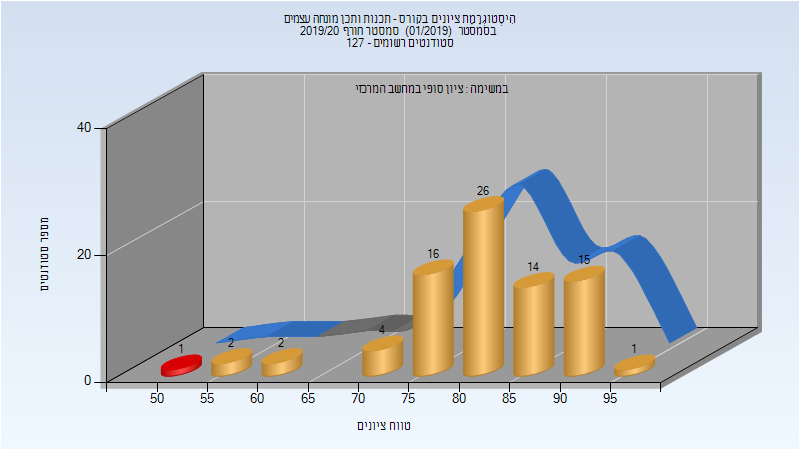
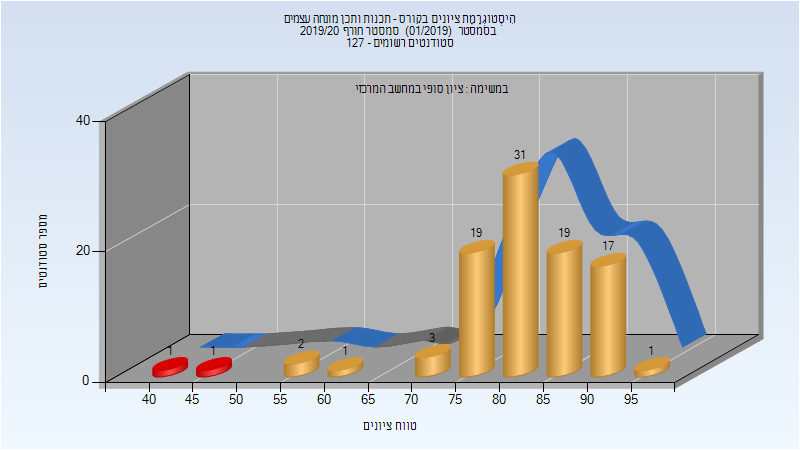
Deploy michael-maltsev/technion-histograms to github.com/michael-maltsev/technion-histograms.git:gh-pages

diff --git a/046271/index.html b/046271/index.html
@@ -629,7 +629,7 @@
 <td>91</td>
 <td>44</td>
 <td>93</td>
-<td>78.136</td>
+<td>78.182</td>
 <td>81</td>
 </tr>
 </tbody>
@@ -650,12 +650,12 @@
 </thead>
 <tbody>
 <tr>
-<td>110</td>
-<td>109/1</td>
-<td>99</td>
-<td>53</td>
+<td>124</td>
+<td>122/2</td>
+<td>98</td>
+<td>44</td>
 <td>97</td>
-<td>82.136</td>
+<td>82.158</td>
 <td>83</td>
 </tr>
 </tbody>

diff --git a/046280/index.html b/046280/index.html
@@ -112,13 +112,13 @@
 </thead>
 <tbody>
 <tr>
-<td>22</td>
-<td>21/1</td>
-<td>95</td>
-<td>50</td>
+<td>25</td>
+<td>22/3</td>
+<td>88</td>
+<td>34</td>
 <td>98</td>
-<td>85.545</td>
-<td>86.5</td>
+<td>81.64</td>
+<td>85</td>
 </tr>
 </tbody>
 </table>

diff --git a/046271/README.md b/046271/README.md
@@ -191,7 +191,7 @@
 
 | סטודנטים | עברו/נכשלו | אחוז עוברים | ציון מינימלי | ציון מקסימלי | ממוצע | חציון |
 | ---- | ---- | ---- | ---- | ---- | ---- | ---- |
-| 22 | 20/2 | 91 | 44 | 93 | 78.136 | 81 |
+| 22 | 20/2 | 91 | 44 | 93 | 78.182 | 81 |
 
 ### סופי
 
@@ -199,5 +199,5 @@
 
 | סטודנטים | עברו/נכשלו | אחוז עוברים | ציון מינימלי | ציון מקסימלי | ממוצע | חציון |
 | ---- | ---- | ---- | ---- | ---- | ---- | ---- |
-| 110 | 109/1 | 99 | 53 | 97 | 82.136 | 83 |
+| 124 | 122/2 | 98 | 44 | 97 | 82.158 | 83 |
 

diff --git a/046280/README.md b/046280/README.md
@@ -30,5 +30,5 @@
 
 | סטודנטים | עברו/נכשלו | אחוז עוברים | ציון מינימלי | ציון מקסימלי | ממוצע | חציון |
 | ---- | ---- | ---- | ---- | ---- | ---- | ---- |
-| 22 | 21/1 | 95 | 50 | 98 | 85.545 | 86.5 |
+| 25 | 22/3 | 88 | 34 | 98 | 81.64 | 85 |
 
